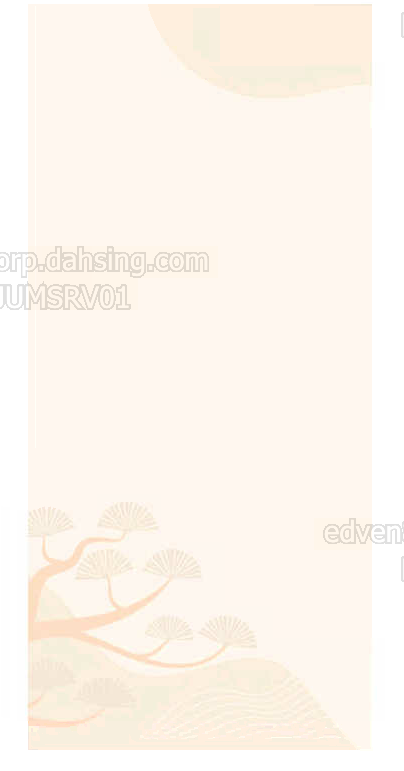
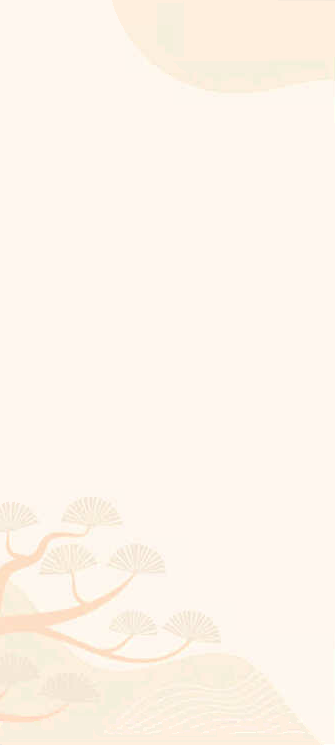
背景

diff --git a/src/app/sent-laisee/sent-laisee.page.html b/src/app/sent-laisee/sent-laisee.page.html
@@ -17,18 +17,14 @@
   </ion-toolbar>
 </ion-header>
 
-<ion-content [fullscreen]="true">
+<ion-content [fullscreen]="true" class="ion-padding">
   <ion-button (click)="nextStep(-1)" size="small">上一步</ion-button>
   <ion-button (click)="nextStep(1)" size="small">下一步</ion-button>
-  <ng-container [ngSwitch]="currentStep">
-    <app-step1 *ngSwitchCase="1"></app-step1>
-    <app-step2 *ngSwitchCase="2"></app-step2>
-    <app-step3 *ngSwitchCase="3"></app-step3>
-    <app-step4 *ngSwitchCase="4"></app-step4>
-    <!-- ... 繼續添加其他步驟組件 ... -->
-    <div *ngSwitchDefault>
-      <!-- 默認情況，可以顯示一些內容或者留空 -->
-    </div>
+  <ng-container>
+    <app-step1 [hidden]="currentStep !== 1"></app-step1>
+    <app-step2 [hidden]="currentStep !== 2"></app-step2>
+    <app-step3 [hidden]="currentStep !== 3"></app-step3>
+    <app-step4 [hidden]="currentStep !== 4"></app-step4>
   </ng-container>
   <ion-button [routerLink]="['/folder/demo']" size="small"
     >Go to folder/demo</ion-button

diff --git a/src/app/sent-laisee/sent-laisee.page.scss b/src/app/sent-laisee/sent-laisee.page.scss
@@ -1,0 +1,4 @@
+ion-content {
+  --background: url("../../assets/img/bg.png") #fff7f0 no-repeat center center /
+    cover;
+}
